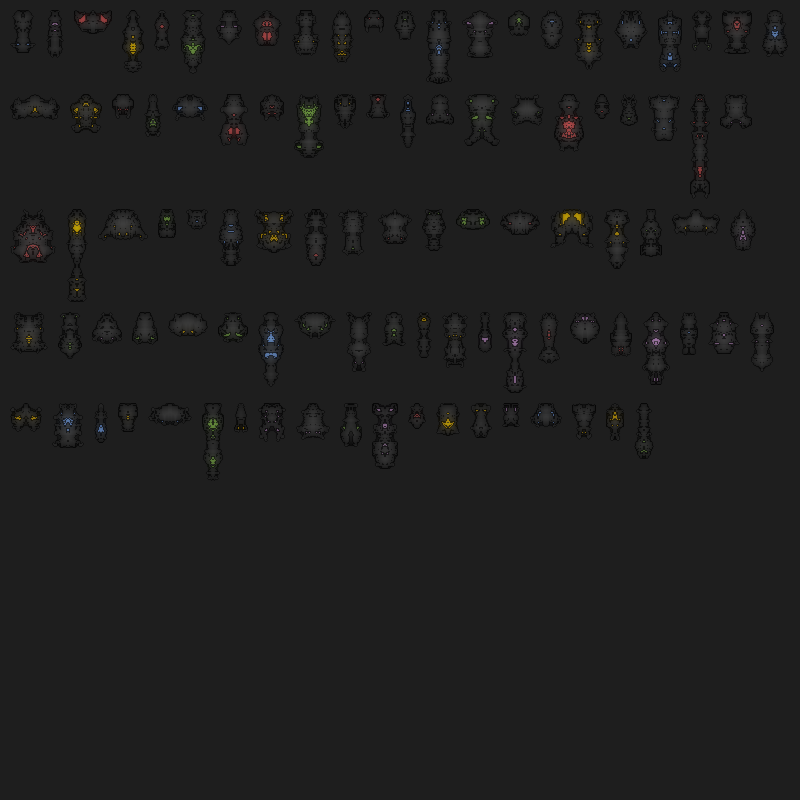
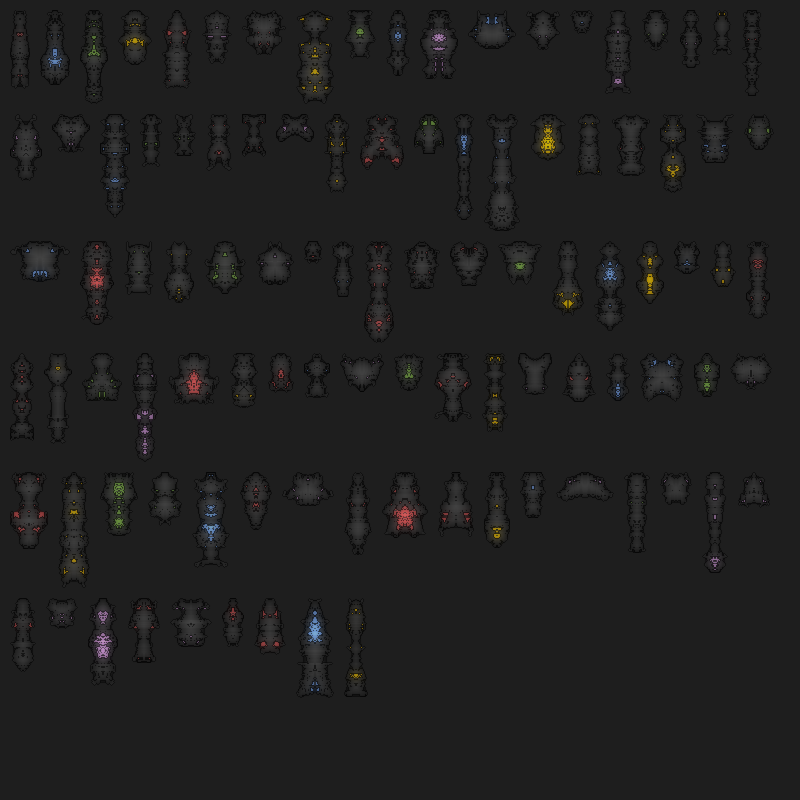
Updates

diff --git a/src/ajb/factory/VesselGeneratorFactory.java b/src/ajb/factory/VesselGeneratorFactory.java
@@ -68,13 +68,13 @@ public class VesselGeneratorFactory {
 		int result = 0;
 		
 		if (size.equals(AssetSize.RANDOM)) {
-			result = 25;
+			result = 45;
 		} else if (size.equals(AssetSize.SMALL)) {
 			result = 15;
 		} else if (size.equals(AssetSize.MEDIUM)) {
-			result = 20;
+			result = 30;
 		} else if (size.equals(AssetSize.LARGE)) {
-			result = 25;
+			result = 45;
 		}		
 		
 		return result;
@@ -82,7 +82,18 @@ public class VesselGeneratorFactory {
 	
 	private int calculateMinNoOfSubSteps(AssetSize size) {
 		
-		int result = 1;		
+		int result = 1;
+		
+		if (size.equals(AssetSize.RANDOM)) {
+			result = 15;
+		} else if (size.equals(AssetSize.SMALL)) {
+			result = 5;
+		} else if (size.equals(AssetSize.MEDIUM)) {
+			result = 10;
+		} else if (size.equals(AssetSize.LARGE)) {
+			result = 15;
+		}		
+		
 		return result;
 	}
 	
@@ -102,40 +113,6 @@ public class VesselGeneratorFactory {
 		
 		return result;
 	}	
-	
-	private int calculateAssetMaxHeight(AssetSize size) {
-		
-		int result = 0;
-		
-		if (size.equals(AssetSize.RANDOM)) {
-			result = 150;
-		} else if (size.equals(AssetSize.SMALL)) {
-			result = 50;
-		} else if (size.equals(AssetSize.MEDIUM)) {
-			result = 100;
-		} else if (size.equals(AssetSize.LARGE)) {
-			result = 150;
-		}		
-		
-		return result;
-	}	
-	
-	private int calculateAssetMaxWidth(AssetSize size) {
-		
-		int result = 0;
-		
-		if (size.equals(AssetSize.RANDOM)) {
-			result = 70;
-		} else if (size.equals(AssetSize.SMALL)) {
-			result = 50;
-		} else if (size.equals(AssetSize.MEDIUM)) {
-			result = 60;
-		} else if (size.equals(AssetSize.LARGE)) {
-			result = 70;
-		}		
-		
-		return result;
-	}
 
 	private boolean validateGrid(Pixel[][] grid, AssetSize size) {
 		
@@ -166,10 +143,6 @@ public class VesselGeneratorFactory {
 		}		
 		
 		if (noOfSecondaryPixels > (noOfFilledPixels / 4)) {
-			result = false;
-		}
-		
-		if (grid.length > calculateAssetMaxHeight(size) || grid[0].length > calculateAssetMaxWidth(size)) {
 			result = false;
 		}		
 		
